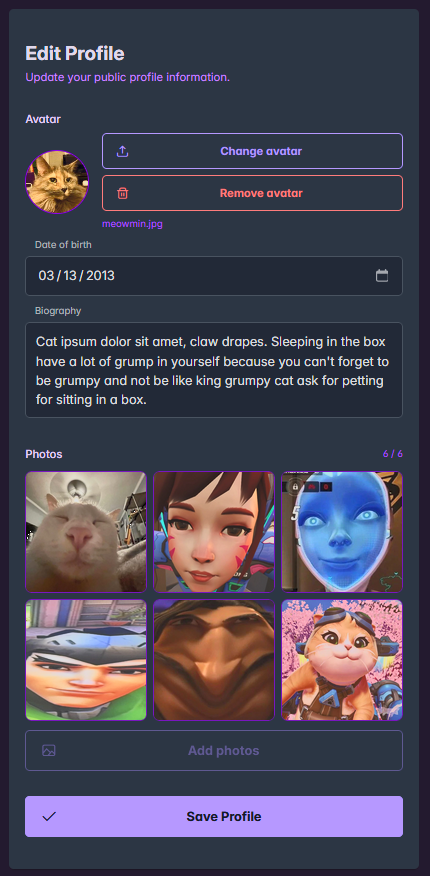
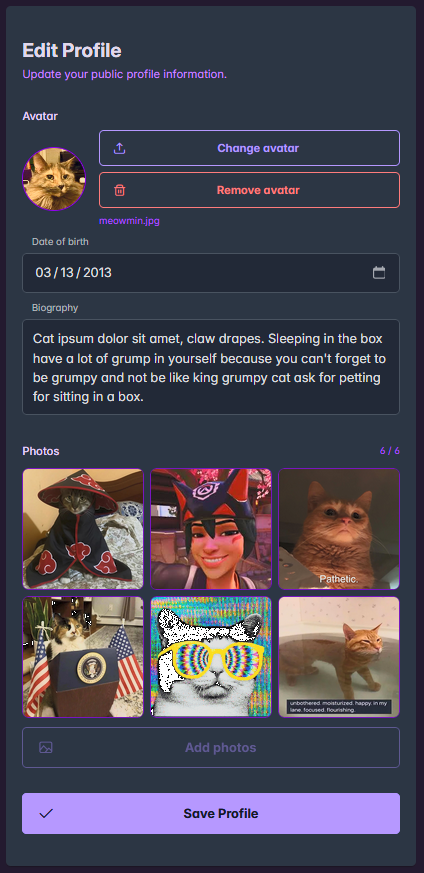
feat: delete existing photos when uploading new ones, update screenshot

diff --git a/src/handlers/cats.rs b/src/handlers/cats.rs
@@ -1,6 +1,7 @@
 use crate::handlers::common::{ApiError, GenericResponse};
 use crate::models::cat::get_cat_by_id;
 
+use crate::models::photos::delete_existing_photos;
 use crate::models::session::get_cat_from_session_id;
 use crate::models::status::Status;
 use axum::Json;
@@ -12,6 +13,7 @@ use sqlx::types::time::OffsetDateTime;
 use time::format_description::well_known::Rfc3339;
 use tokio::fs;
 use tokio::io::AsyncWriteExt;
+use tracing::debug;
 use uuid::Uuid;
 
 pub mod routes {
@@ -128,6 +130,15 @@ pub async fn cat_update_profile_handler(
     fs::create_dir_all(PHOTO_UPLOAD_DIR)
         .await
         .map_err(|e| ApiError::internal(e))?;
+
+    // Delete existing photos regardless of how many new ones they upload
+    let photos_deleted = delete_existing_photos(&pool, cat.id)
+        .await
+        .map_err(|e| ApiError::internal(e))?;
+    debug!(
+        "Deleted {} existing photos for cat {}",
+        photos_deleted, cat.id
+    );
 
     while let Some(field) = multipart
         .next_field()

diff --git a/src/models/photos.rs b/src/models/photos.rs
@@ -29,6 +29,15 @@ pub struct CatPhotoRow {
     pub alt_text: Option<String>,
 }
 
+pub async fn delete_existing_photos(pool: &PgPool, cat_id: Uuid) -> Result<u64, sqlx::Error> {
+    let rows_affected = sqlx::query(r#"DELETE FROM cats_photos WHERE cat_id = $1"#)
+        .bind(cat_id)
+        .execute(pool)
+        .await?
+        .rows_affected();
+    Ok(rows_affected)
+}
+
 pub async fn get_cat_photos_map(pool: &PgPool) -> Result<HashMap<Uuid, Vec<CatPhoto>>, Error> {
     let rows = sqlx::query_as!(
         CatPhotoRow,
